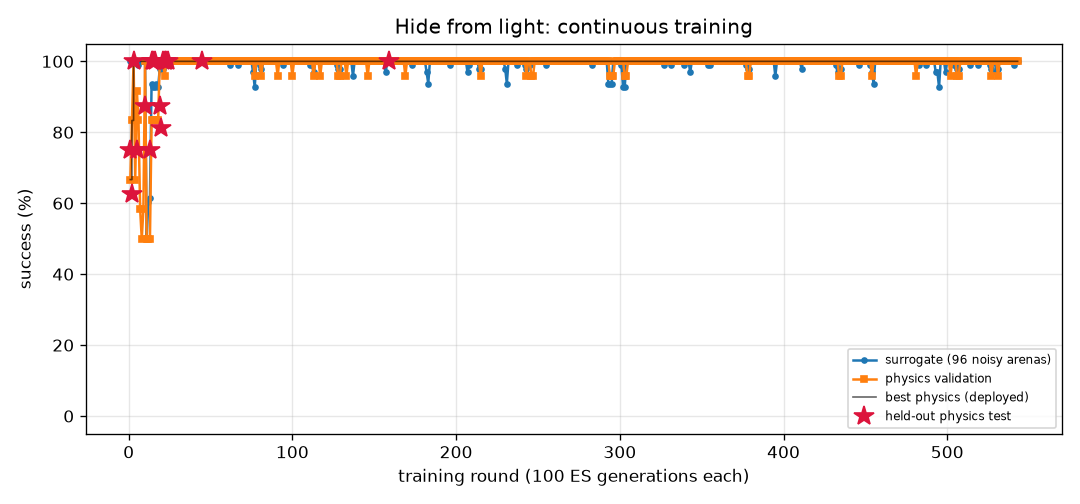
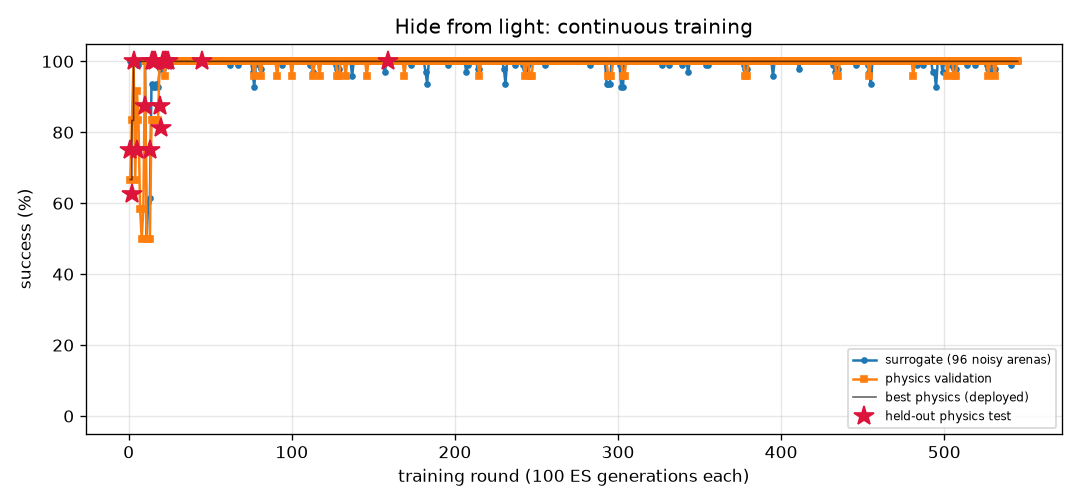
FlyLab: continuous training progress
- walk_forward: optimal, physics val 100% of 24, round 308
- turn: optimal, physics val 100% of 24, round 906
- goto: optimal, physics val 100% of 24, round 250
- odor_seek: optimal, physics val 100% of 24, round 205
- odor_avoid: optimal, physics val 100% of 24, round 816
- light_seek: optimal, physics val 100% of 24, round 443
- light_avoid: optimal, physics val 100% of 24, round 545

diff --git a/projects/09_flylab/training/odor_avoid/REPORT.md b/projects/09_flylab/training/odor_avoid/REPORT.md
@@ -1,14 +1,14 @@
 # Escape a bad smell (`odor_avoid`) — training report
 
-*Auto-generated by `train_brains.py`, last updated 2026-11-07T13:16:53.*
+*Auto-generated by `train_brains.py`, last updated 2026-11-07T14:00:43.*
 
 ![curve](curve.png)
 
 | | |
 |---|---|
-| rounds | 813 |
-| ES generations | 81300 |
-| physics runs | 16818 |
+| rounds | 816 |
+| ES generations | 81600 |
+| physics runs | 16890 |
 | status | **optimal** |
 | best brain | round 373: physics validation **100%** on 24 arenas, surrogate 97% |
 | held-out physics test | **97%** on 32 unseen arenas (95% CI 84%-99%) (errors: [62.0, 57.4, 62.6, 61.9, 59.0, 61.6, 56.5, 60.7, 31.7, 60.9, 63.1, 57.1, 61.1, 62.1, 61.5, 60.2, 62.2, 55.2, 62.1, 54.2, 61.3, 62.0, 58.0, 61.9, 59.8, 56.5, 56.3, 56.4, 56.3, 57.7, 61.9, 32.4]) |
@@ -17,9 +17,6 @@ Physics error per arena: mm gained away from source (> 6 without first approachi
 
 | round | level | gens | sigma | surrogate | physics val | val errors | test | note |
 |---:|---:|---:|---:|---:|---:|---|---:|---|
-| 774 | 3 | 77400 | 0.026 | 94% | 96% | [63.5, 61.5, 56.3, 59.0, 62.1, 62.4, 61.6, 62.8, 60.7, 58.0, 60.8, 61.9, 53.4, 57.2, 43.7, 62.2, 62.5, 62.4, 55.5, 55.7, 61.9, 62.5, 59.0, 63.3] |  |  |
-| 775 | 3 | 77500 | 0.028 | 96% | 96% | [60.5, 58.1, 56.7, 58.6, 60.6, 62.0, 60.5, 53.2, 60.8, 61.1, 60.6, 60.7, 53.7, 57.8, 45.2, 61.8, 60.8, 62.2, 54.3, 54.4, 60.6, 61.7, 58.8, 61.4] |  |  |
-| 776 | 3 | 77600 | 0.026 | 91% | 100% | [59.8, 51.5, 58.3, 56.8, 61.9, 61.3, 59.5, 58.5, 60.4, 60.7, 61.0, 60.3, 53.9, 57.5, 51.1, 61.2, 60.6, 60.6, 54.0, 51.1, 60.3, 60.1, 57.9, 60.0] |  |  |
 | 777 | 3 | 77700 | 0.029 | 94% | 100% | [58.6, 54.6, 54.3, 55.3, 59.0, 58.4, 55.3, 38.3, 56.3, 48.4, 55.8, 58.3, 47.6, 52.3, 12.8, 57.8, 58.2, 57.6, 50.4, 50.7, 58.1, 55.0, 54.3, 54.2] |  | restart from best |
 | 778 | 3 | 77800 | 0.026 | 93% | 100% | [62.8, 57.1, 56.2, 56.1, 58.3, 61.7, 61.0, 61.6, 61.3, 42.9, 57.4, 61.8, 46.9, 54.4, 31.6, 62.0, 62.2, 61.7, 50.2, 59.4, 62.3, 60.9, 59.6, 62.4] |  |  |
 | 779 | 3 | 77900 | 0.028 | 98% | 96% | [62.8, 60.1, 56.5, 59.5, 62.4, 60.9, 61.9, 23.0, 61.3, 59.6, 61.3, 61.9, 51.9, 56.2, 38.3, 62.3, 61.8, 62.1, 55.0, 57.0, 62.3, 60.6, 59.4, 44.6] |  |  |
@@ -57,3 +54,6 @@ Physics error per arena: mm gained away from source (> 6 without first approachi
 | 811 | 3 | 81100 | 0.026 | 100% | 100% | [61.2, 60.6, 56.1, 59.1, 60.9, 61.6, 60.4, 30.3, 61.5, 57.8, 26.6, 61.5, 48.2, 56.1, 40.7, 60.6, 61.7, 61.7, 50.4, 59.0, 61.2, 40.7, 59.5, 61.2] |  |  |
 | 812 | 3 | 81200 | 0.024 | 95% | 100% | [61.9, 60.8, 55.9, 59.7, 62.0, 61.7, 60.4, 58.2, 61.6, 44.9, 47.3, 61.6, 49.6, 55.8, 13.0, 60.9, 61.9, 60.4, 50.0, 59.6, 61.9, 61.0, 59.4, 48.8] |  |  |
 | 813 | 3 | 81300 | 0.027 | 95% | 100% | [61.1, 57.5, 55.5, 57.8, 59.9, 61.4, 61.4, 58.3, 61.2, 53.1, 46.7, 61.1, 44.2, 52.9, 32.0, 59.2, 60.7, 61.1, 45.3, 53.9, 60.7, 60.8, 58.4, 61.0] |  | restart from best |
+| 814 | 3 | 81400 | 0.026 | 94% | 96% | [62.5, 61.0, 55.9, 60.7, 60.4, 62.4, 62.3, 60.2, 62.1, 60.6, 53.8, 62.1, 52.2, 57.2, 43.1, 62.3, 62.1, 62.5, 55.0, 59.3, 62.3, 49.7, 61.0, 61.6] |  |  |
+| 815 | 3 | 81500 | 0.028 | 94% | 96% | [62.8, 60.6, 55.9, 61.6, 62.9, 62.7, 60.9, 43.3, 61.0, 60.4, 62.4, 62.2, 55.4, 57.8, 42.4, 62.0, 62.2, 61.9, 55.2, 57.3, 61.5, 62.0, 61.1, 60.7] |  |  |
+| 816 | 3 | 81600 | 0.028 | 94% | 96% | [62.1, 59.3, 58.5, 59.5, 60.6, 60.3, 59.6, 38.7, 60.3, 45.4, 58.2, 60.9, 53.0, 55.4, 38.1, 60.4, 61.4, 60.4, 54.1, 56.7, 61.1, 35.9, 60.0, 43.7] |  |  |

diff --git a/projects/09_flylab/training/light_avoid/REPORT.md b/projects/09_flylab/training/light_avoid/REPORT.md
@@ -1,14 +1,14 @@
 # Hide from light (`light_avoid`) — training report
 
-*Auto-generated by `train_brains.py`, last updated 2026-11-06T23:35:46.*
+*Auto-generated by `train_brains.py`, last updated 2026-11-07T13:51:03.*
 
 ![curve](curve.png)
 
 | | |
 |---|---|
-| rounds | 543 |
-| ES generations | 54300 |
-| physics runs | 13304 |
+| rounds | 545 |
+| ES generations | 54500 |
+| physics runs | 13352 |
 | status | **optimal** |
 | best brain | round 159: physics validation **100%** on 24 arenas, surrogate 100% |
 | held-out physics test | **100%** on 32 unseen arenas (95% CI 89%-100%) (errors: [14.4, 56.1, 58.0, 57.9, 57.5, 14.0, 14.4, 56.6, 56.8, 13.3, 14.1, 56.6, 57.6, 13.1, 57.3, 55.9, 57.2, 55.0, 55.2, 53.9, 55.2, 12.4, 53.8, 53.7, 14.1, 13.7, 55.0, 57.8, 56.2, 13.1, 52.8, 56.5]) |
@@ -17,8 +17,6 @@ Physics error per arena: mm gained away from source (> 6 without first approachi
 
 | round | level | gens | sigma | surrogate | physics val | val errors | test | note |
 |---:|---:|---:|---:|---:|---:|---|---:|---|
-| 504 | 3 | 50400 | 0.024 | 99% | 100% | [52.2, 54.8, 54.6, 52.1, 53.6, 52.0, 53.7, 14.5, 12.8, 13.3, 49.9, 53.4, 14.4, 51.9, 54.7, 53.3, 14.2, 54.1, 54.9, 14.4, 52.5, 52.8, 53.1, 52.8] |  |  |
-| 505 | 3 | 50500 | 0.025 | 99% | 100% | [48.5, 51.4, 51.3, 49.4, 50.1, 49.1, 50.4, 14.5, 13.0, 13.4, 10.1, 49.8, 14.4, 47.3, 51.3, 49.7, 14.2, 50.6, 51.6, 14.4, 50.2, 11.1, 50.2, 49.2] |  |  |
 | 506 | 3 | 50600 | 0.025 | 98% | 96% | [46.2, 46.5, 46.6, 46.5, 43.0, 46.5, 46.4, 14.5, 13.0, 13.4, 10.2, 42.7, 14.4, 7.9, 46.6, 46.6, 14.2, 44.1, 46.4, 14.4, 44.3, 11.3, 46.1, 41.6] |  |  |
 | 507 | 3 | 50700 | 0.025 | 98% | 96% | [45.3, 49.9, 49.3, 47.1, 50.8, 45.8, 48.2, 14.5, 13.0, 13.4, 10.2, 50.8, 14.4, 8.0, 49.7, 46.7, 14.2, 51.2, 50.1, 14.4, 43.7, 11.3, 48.0, 50.4] |  | restart from best |
 | 508 | 3 | 50800 | 0.024 | 100% | 100% | [43.1, 44.3, 45.4, 45.4, 46.9, 45.8, 42.9, 14.5, 40.0, 13.3, 46.6, 46.3, 14.4, 47.3, 44.0, 44.3, 14.2, 47.5, 42.8, 14.4, 43.7, 44.9, 40.4, 45.3] |  |  |
@@ -57,3 +55,5 @@ Physics error per arena: mm gained away from source (> 6 without first approachi
 | 541 | 3 | 54100 | 0.024 | 99% | 100% | [54.2, 57.9, 57.9, 54.1, 54.1, 54.3, 57.9, 14.5, 12.2, 13.4, 48.0, 53.9, 14.4, 51.1, 57.9, 53.7, 14.2, 55.2, 57.2, 14.4, 50.7, 50.5, 57.2, 52.7] |  |  |
 | 542 | 3 | 54200 | 0.025 | 100% | 100% | [57.7, 60.1, 60.0, 57.5, 58.7, 57.7, 59.1, 14.5, 54.1, 13.4, 58.8, 58.4, 14.4, 58.8, 60.1, 57.1, 14.2, 59.1, 60.4, 14.4, 56.1, 59.0, 58.8, 57.7] |  |  |
 | 543 | 3 | 54300 | 0.024 | 100% | 100% | [58.3, 60.9, 60.8, 58.3, 58.2, 58.7, 60.3, 14.5, 53.5, 13.5, 58.3, 58.1, 14.4, 55.6, 60.9, 57.7, 14.2, 59.3, 60.9, 14.4, 57.0, 56.6, 60.0, 57.3] |  | restart from best |
+| 544 | 3 | 54400 | 0.024 | 100% | 100% | [48.1, 49.0, 48.4, 48.9, 52.5, 49.3, 46.4, 14.5, 9.9, 13.2, 51.1, 52.6, 14.4, 52.1, 49.0, 49.0, 14.2, 52.4, 49.6, 14.4, 46.9, 51.8, 47.3, 52.5] |  |  |
+| 545 | 3 | 54500 | 0.024 | 100% | 100% | [53.1, 54.4, 54.2, 53.2, 53.8, 53.3, 53.1, 14.5, 47.1, 13.4, 53.6, 53.6, 14.4, 53.7, 54.3, 51.6, 14.2, 54.5, 54.9, 14.4, 50.5, 54.0, 53.0, 53.0] |  |  |

diff --git a/projects/09_flylab/training/TRAINING.md b/projects/09_flylab/training/TRAINING.md
@@ -1,6 +1,6 @@
 # FlyLab brains — continuous training log
 
-*Auto-generated by `train_brains.py`, last updated 2026-11-07T13:21:31.*
+*Auto-generated by `train_brains.py`, last updated 2026-11-07T14:00:43.*
 
 Every skill has its own brain and its own training process: surrogate ES rounds, physics validation in MuJoCo, keep-the-best selection, and a held-out physics test that is never used for selection. See each skill's report for its full round-by-round history. Mastery is progressive: passing a level (100% physics validation, >=95% surrogate) doubles the validation and test arena sets; a brain is **optimal** once it holds up at level 3 (>=95% of 24 validation arenas) AND scores >=90% on the 32 held-out test arenas. Test columns show 95% Wilson confidence intervals.
 
@@ -10,6 +10,6 @@ Every skill has its own brain and its own training process: surrogate ES rounds,
 | [Turn in place](turn/REPORT.md) | 906 | 90600 | 21990 | 100% | 100% of 24 | 97% of 32 (CI 84-99%) | **optimal** |
 | [Go to a location](goto/REPORT.md) | 250 | 25000 | 5950 | 100% | 100% of 24 | 100% of 32 (CI 89-100%) | **optimal** |
 | [Find food by smell](odor_seek/REPORT.md) | 205 | 20500 | 4350 | 100% | 100% of 24 | 100% of 32 (CI 89-100%) | **optimal** |
-| [Escape a bad smell](odor_avoid/REPORT.md) | 813 | 81300 | 16818 | 97% | 100% of 24 | 97% of 32 (CI 84-99%) | **optimal** |
+| [Escape a bad smell](odor_avoid/REPORT.md) | 816 | 81600 | 16890 | 97% | 100% of 24 | 97% of 32 (CI 84-99%) | **optimal** |
 | [Walk toward light](light_seek/REPORT.md) | 443 | 44300 | 7512 | 100% | 100% of 24 | 100% of 32 (CI 89-100%) | **optimal** |
-| [Hide from light](light_avoid/REPORT.md) | 543 | 54300 | 13304 | 100% | 100% of 24 | 100% of 32 (CI 89-100%) | **optimal** |
+| [Hide from light](light_avoid/REPORT.md) | 545 | 54500 | 13352 | 100% | 100% of 24 | 100% of 32 (CI 89-100%) | **optimal** |
